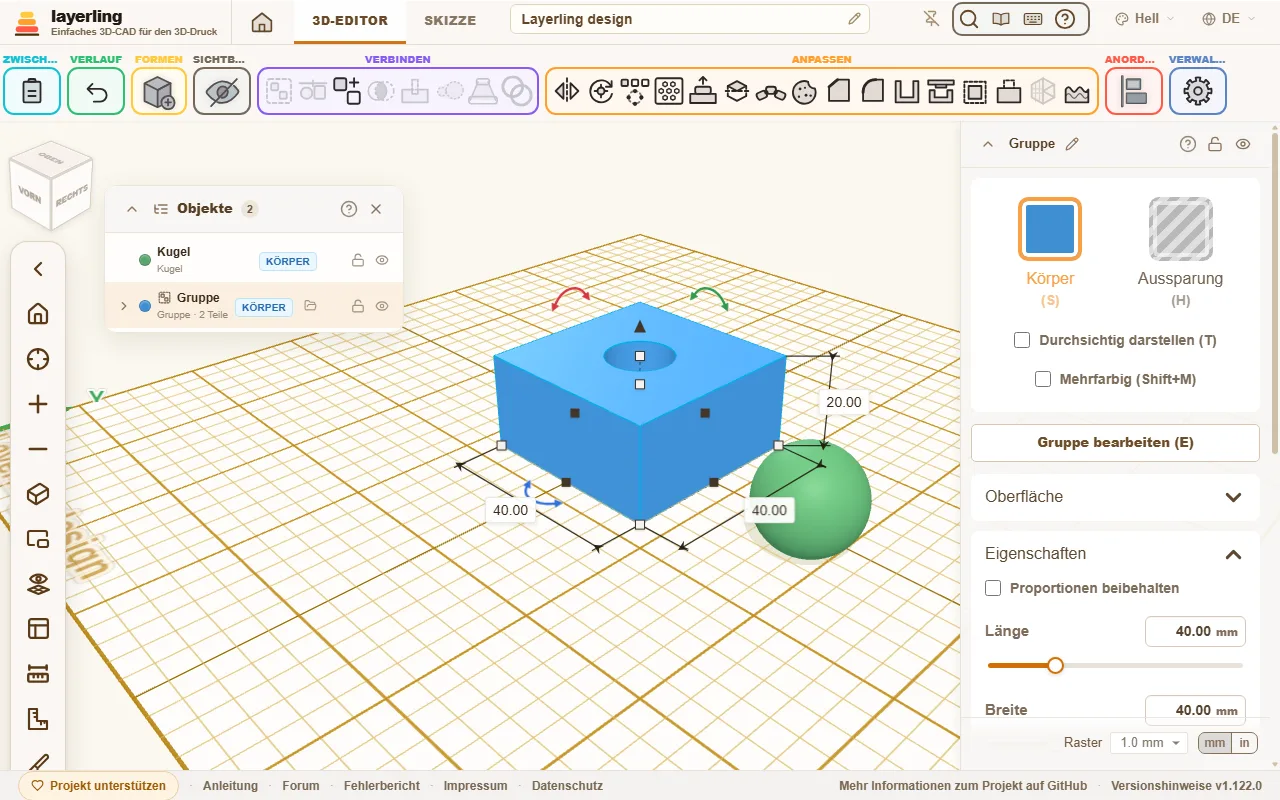
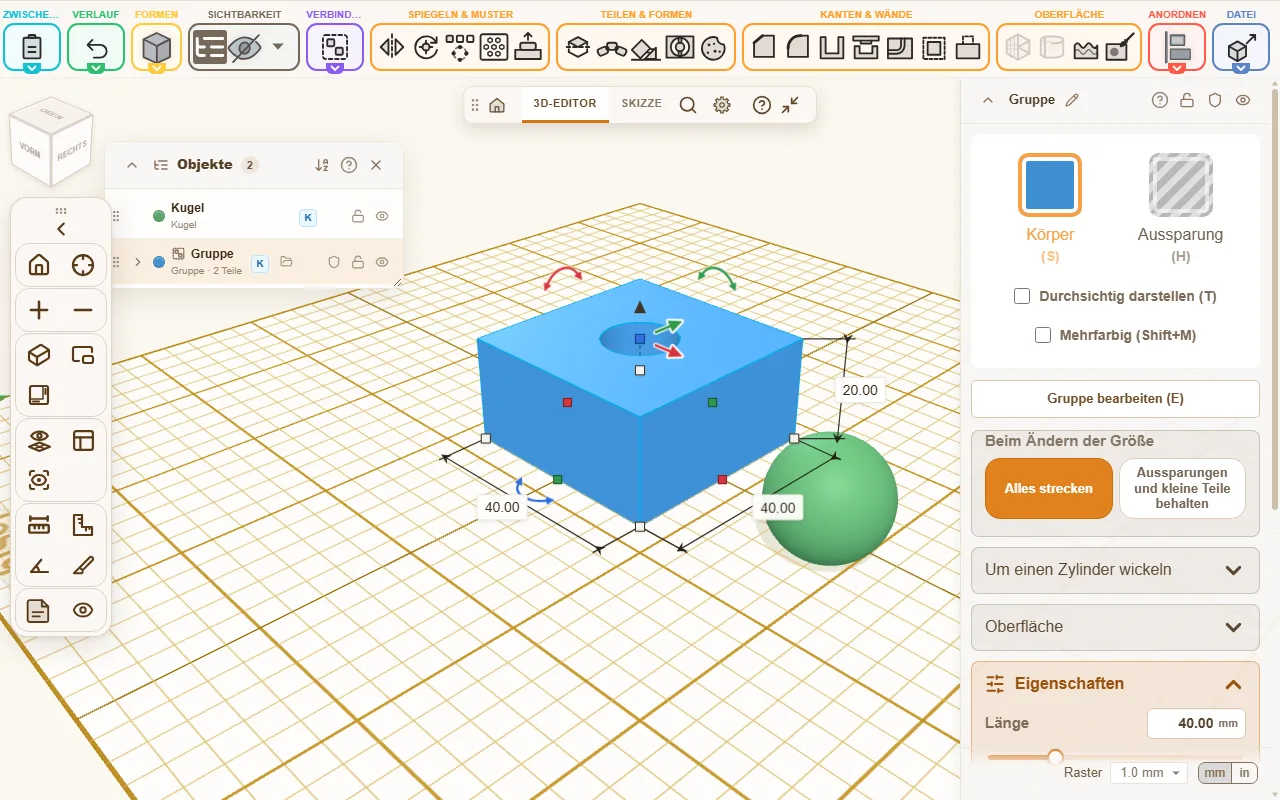
Object list: one letter for Solid or Hole, and the width can be dragged (Discussion #1636): the list is 300 px wide, and a group's row with its label and up to five buttons left as little as one letter of the name. The label is now the first letter of the word in the language shown (S/H, K/A in Germ

diff --git a/apps/web/src/components/workplane/ObjectListPanel.tsx b/apps/web/src/components/workplane/ObjectListPanel.tsx
@@ -52,6 +52,24 @@ type DropTarget = { before: string | null } | { into: string };
 const COLLAPSED_STORAGE_KEY = "layerling.editor.objectListCollapsed";
 const ORDER_STORAGE_KEY = "layerling.editor.objectListOrder";
 
+const WIDTH_STORAGE_KEY = "layerling.editor.objectListWidth";
+/** The width the panel can be dragged to at its lower right corner (Discussion #1636); min-width in globals.css. */
+const MIN_PANEL_WIDTH = 240;
+const MAX_PANEL_WIDTH = 600;
+
+/**
+ * Solid or hole as one letter, the first of the word, with the word as its tooltip (Discussion #1636): the
+ * whole word took the room the name needed. The first letters differ in every language.
+ */
+function SolidHoleBadge({ hole, small = false }: { hole: boolean; small?: boolean }) {
+  const word = hole ? t("outliner.hole") : t("outliner.solid");
+  return (
+    <span className={`outliner-badge ${small ? "small" : ""} ${hole ? "badge-hole" : "badge-solid"}`} title={word} aria-label={word}>
+      {Array.from(word)[0]?.toLocaleUpperCase(getLanguage())}
+    </span>
+  );
+}
+
 /** Docked just right of the view cube - where .outliner-panel puts it in globals.css. */
 const OBJECT_LIST_PANEL: MovablePanelOptions = {
   dockedAt: () => ({ left: 104, top: 64 }),
@@ -87,6 +105,10 @@ export function ObjectListPanel({
   const movable = useMovablePanel("layerling.editor.objectListPosition", OBJECT_LIST_PANEL);
   const [collapsed, setCollapsed] = useState(false);
   const [order, setOrder] = useState<ObjectListOrder>("added");
+  /** The width dragged at the lower right corner (Discussion #1636); null keeps the 300 px of globals.css. */
+  const [width, setWidth] = useState<number | null>(null);
+  const widthRef = useRef(width);
+  widthRef.current = width;
 
   // Remembered in this browser, like the panel's position; read after mounting so the first render matches the server's.
   useEffect(() => {
@@ -94,10 +116,33 @@ export function ObjectListPanel({
       setCollapsed(window.localStorage.getItem(COLLAPSED_STORAGE_KEY) === "true");
       const storedOrder = window.localStorage.getItem(ORDER_STORAGE_KEY);
       if (isObjectListOrder(storedOrder)) setOrder(storedOrder);
+      const storedWidth = Number(window.localStorage.getItem(WIDTH_STORAGE_KEY));
+      if (storedWidth >= MIN_PANEL_WIDTH && storedWidth <= MAX_PANEL_WIDTH) setWidth(Math.round(storedWidth));
     } catch {
       // Blocked storage: the panel starts expanded, in the order the shapes were added.
     }
   }, []);
+
+  // The browser's own resize grip writes the new width into the panel's style; keep it from there. A window too
+  // narrow for it only squeezes the panel (max-width) and leaves the wish as it was.
+  useEffect(() => {
+    const panel = movable.panelRef.current;
+    if (!panel || typeof ResizeObserver === "undefined") return;
+    const observer = new ResizeObserver(() => {
+      const dragged = Number.parseFloat(panel.style.width);
+      if (!Number.isFinite(dragged)) return;
+      const next = Math.round(Math.min(MAX_PANEL_WIDTH, Math.max(MIN_PANEL_WIDTH, dragged)));
+      if (next === widthRef.current) return;
+      setWidth(next);
+      try {
+        window.localStorage.setItem(WIDTH_STORAGE_KEY, String(next));
+      } catch {
+        // Blocked storage: the width holds until the panel closes.
+      }
+    });
+    observer.observe(panel);
+    return () => observer.disconnect();
+  }, [movable.panelRef]);
 
   const toggleOrder = () => {
     const next: ObjectListOrder = order === "name" ? "added" : "name";
@@ -353,9 +398,7 @@ export function ObjectListPanel({
           <span className="outliner-child-name" title={childDisplayName}>
             {childDisplayName}
           </span>
-          <span className={`outliner-badge small ${child.hole ? "badge-hole" : "badge-solid"}`}>
-            {child.hole ? t("outliner.hole") : t("outliner.solid")}
-          </span>
+          <SolidHoleBadge hole={Boolean(child.hole)} small />
         </li>
       );
       return leadsToMatch && child.groupedShapes ? [row, ...renderGroupParts(child.groupedShapes, depth + 1, false)] : [row];
@@ -365,7 +408,7 @@ export function ObjectListPanel({
     <div
       ref={movable.panelRef}
       className={`outliner-panel ${movable.dragging ? "moving" : ""} ${collapsed ? "collapsed" : ""}`}
-      style={movable.style}
+      style={width === null ? movable.style : { ...movable.style, width }}
       inert={inert}
       role="region"
       aria-label={t("outliner.title")}
@@ -533,9 +576,7 @@ export function ObjectListPanel({
                       </div>
 
                       <div className="outliner-badges">
-                        <span className={`outliner-badge ${shape.hole ? "badge-hole" : "badge-solid"}`}>
-                          {shape.hole ? t("outliner.hole") : t("outliner.solid")}
-                        </span>
+                        <SolidHoleBadge hole={Boolean(shape.hole)} />
                       </div>
 
                       <div className="outliner-row-actions">

diff --git a/apps/web/src/app/globals.css b/apps/web/src/app/globals.css
@@ -15294,7 +15294,10 @@ html[data-theme="dark"] .theme-check {
   display: flex;
   flex-direction: column;
   width: 300px;
-  max-width: calc(100vw - 120px);
+  /* Wider or narrower at the lower right corner (Discussion #1636); MIN/MAX_PANEL_WIDTH in ObjectListPanel.tsx. */
+  min-width: min(240px, calc(100vw - 120px));
+  max-width: min(600px, calc(100vw - 120px));
+  resize: horizontal;
   max-height: calc(100% - 96px);
   background: rgba(254, 253, 252, 0.96);
   backdrop-filter: blur(12px);
@@ -15659,14 +15662,18 @@ html[data-theme="dark"] .theme-check {
   flex: none;
 }
 
+/* One letter for Solid or Hole, the word as its tooltip (Discussion #1636). */
 .outliner-badge {
   display: inline-block;
-  padding: 1px 6px;
+  min-width: 18px;
+  padding: 1px 4px;
   font-size: 10px;
   font-weight: 700;
+  line-height: 14px;
+  text-align: center;
   border-radius: 4px;
   text-transform: uppercase;
-  letter-spacing: 0.02em;
+  cursor: default;
 }
 
 .outliner-badge.badge-solid {
@@ -15682,8 +15689,10 @@ html[data-theme="dark"] .theme-check {
 }
 
 .outliner-badge.small {
-  padding: 0 4px;
+  min-width: 15px;
+  padding: 0 3px;
   font-size: 9px;
+  line-height: 12px;
 }
 
 .outliner-row-actions {
@@ -16190,6 +16199,11 @@ html[data-theme="dark"] .shape-menu-pin.active {
 /* Collapsed: the title bar alone, without the line that separates it from the list. */
 .outliner-panel.collapsed .outliner-header {
   border-bottom: none;
+}
+
+/* The title bar alone has no corner to drag the width at. */
+.outliner-panel.collapsed {
+  resize: none;
 }
 
 .guide-modal h3 {

diff --git a/docs/guide/ru/04-select-and-arrange.md b/docs/guide/ru/04-select-and-arrange.md
@@ -22,7 +22,7 @@ summary: Как выделять фигуры, находить их в спис
 ![Список объектов: группа «Группа» с двумя деталями и сфера рядом. Значок папки раскрывает группу.](shot:object-list)
 
 - Щелчок по строке выделяет фигуру, в том числе детали внутри группы. С зажатым [[Shift]] вы добавляете строки или убираете их снова — так же, как в виде. Стрелки раскрывают и сворачивают группы.
-- Подпись показывает, что это за деталь — {{ui:outliner.solid}} или {{ui:outliner.hole}}.
+- Буква после названия показывает, является ли деталь {{ui:outliner.solid}} или {{ui:outliner.hole}}: это первая буква слова, а при наведении мыши появляется всё слово.
 - Под именем указано, что это за форма. Тело, которое уже не простая форма (скруглённое, полое или импортированное), показывает {{ui:shape.exactBody}}, если экспорт STEP записывает его точно, и {{ui:shape.mesh}}, если оно состоит только из треугольников и уходит в STL. Сужение, наклон или закрутка, добавленные после скругления или выдалбливания тела, изгибают только его сетку, поэтому тогда там стоит {{ui:shape.mesh}}.
 - Замок и глаз блокируют и скрывают отдельные детали.
 - {{ui:outliner.rename}} даёт детали своё имя; карандаш рядом с именем вверху настроек делает то же для выделенной фигуры. Понятные имена очень помогают в крупных проектах.
@@ -32,7 +32,7 @@ summary: Как выделять фигуры, находить их в спис
 - Поле поиска находит фигуры по имени и по типу — так и «цилиндр», и «отверстие». Оно заглядывает и внутрь групп, как бы глубоко они ни были вложены: группа, в которой есть совпадение, остаётся в списке и раскрывается, показывая подходящие детали и группы, которые к ним ведут. Группа, найденная по своему имени, при раскрытии показывает все свои детали.
 - Стрелка у самого левого края заголовка сворачивает список до заголовка и обратно.
 
-Список закреплён справа от куба ориентации. Перетащите его за заголовок, чтобы поставить в любое место на рабочей плоскости; он проходит под кубом ориентации и панелью вида. Отпустите его обратно рядом с кубом ориентации или дважды щёлкните по заголовку, и он снова закрепится. Где он был и был ли он свёрнут, запоминается в этом браузере.
+Список закреплён справа от куба ориентации. Перетащите его за заголовок, чтобы поставить в любое место на рабочей плоскости; он проходит под кубом ориентации и панелью вида. Отпустите его обратно рядом с кубом ориентации или дважды щёлкните по заголовку, и он снова закрепится. Где он был и был ли он свёрнут, запоминается в этом браузере. Чтобы сделать список шире или уже, потяните за его правый нижний угол, от 240 до 600 пикселей; ширину браузер тоже запоминает.
 
 ## Ввод положения
 

diff --git a/docs/guide/es/04-select-and-arrange.md b/docs/guide/es/04-select-and-arrange.md
@@ -22,7 +22,7 @@ Con muchas piezas, es fácil perderse en la vista. La lista de objetos ({{ui:edi
 ![La lista de objetos: el grupo «Grupo» con dos piezas y una esfera al lado. Un icono de carpeta abre el grupo.](shot:object-list)
 
 - Un clic en una entrada selecciona la forma, también las piezas que están dentro de un grupo. Con [[Mayús]] pulsado, añades más entradas o las vuelves a quitar, igual que en la vista. Las flechas despliegan y pliegan los grupos.
-- La etiqueta indica si una pieza es {{ui:outliner.solid}} u {{ui:outliner.hole}}.
+- La letra tras el nombre indica si una pieza es {{ui:outliner.solid}} o {{ui:outliner.hole}}: es la primera letra de la palabra, y la palabra completa aparece al pasar el ratón por encima.
 - Debajo del nombre aparece qué tipo de forma es. Un cuerpo que ya no es una forma simple (redondeado, vaciado o importado) muestra {{ui:shape.exactBody}} cuando la exportación STEP lo escribe con exactitud, y {{ui:shape.mesh}} cuando solo son triángulos y sale como STL. Un estrechamiento, una inclinación o una torsión añadidos después de redondear o vaciar un cuerpo solo doblan su malla, así que entonces muestra {{ui:shape.mesh}}.
 - El candado y el ojo bloquean y ocultan piezas sueltas.
 - {{ui:outliner.rename}} le da a una pieza un nombre propio; el lápiz junto al nombre, en la parte de arriba del panel de propiedades, hace lo mismo con la forma seleccionada. En los diseños grandes, unos nombres con sentido ayudan muchísimo.
@@ -32,7 +32,7 @@ Con muchas piezas, es fácil perderse en la vista. La lista de objetos ({{ui:edi
 - El campo de búsqueda encuentra formas por su nombre y por su tipo, así que también puedes buscar «cilindro» u «orificio». Busca también dentro de los grupos, por muy anidados que estén: un grupo que contiene una coincidencia se queda en la lista y se despliega para mostrar las piezas que coinciden y los grupos que llevan hasta ellas. Un grupo encontrado por su propio nombre muestra todas sus piezas cuando lo abres.
 - La flecha del extremo izquierdo de la barra de título pliega la lista hasta dejar solo la barra de título, y la vuelve a desplegar.
 
-La lista está acoplada justo a la derecha del cubo de vista. Arrástrala por su barra de título para ponerla en cualquier punto del plano de trabajo; pasa por debajo del cubo de vista y de la barra de vista. Si la sueltas otra vez junto al cubo de vista, o haces doble clic en la barra de título, se vuelve a acoplar. Este navegador recuerda dónde estaba y si estaba plegada.
+La lista está acoplada justo a la derecha del cubo de vista. Arrástrala por su barra de título para ponerla en cualquier punto del plano de trabajo; pasa por debajo del cubo de vista y de la barra de vista. Si la sueltas otra vez junto al cubo de vista, o haces doble clic en la barra de título, se vuelve a acoplar. Este navegador recuerda dónde estaba y si estaba plegada. Para hacer la lista más ancha o más estrecha, arrastra su esquina inferior derecha, de 240 a 600 píxeles; el navegador recuerda también el ancho.
 
 ## Escribir una posición
 

diff --git a/docs/guide/fr/04-select-and-arrange.md b/docs/guide/fr/04-select-and-arrange.md
@@ -22,7 +22,7 @@ Avec de nombreuses pièces, il est facile de perdre le fil de la vue. La liste d
 ![La liste d'objets : le groupe "Groupe" avec deux parties et une sphère à côté. Une icône de dossier ouvre le groupe.](shot:object-list)
 
 - Un clic sur une entrée sélectionne la forme, y compris les pièces à l'intérieur d'un groupe. Avec [[Shift]] maintenu, vous ajoutez ou supprimez d'autres entrées, comme dans la vue. Les flèches plient les groupes pour s'ouvrir et se fermer.
-- L'étiquette indique si une pièce est {{ui:outliner.solid}} ou {{ui:outliner.hole}}.
+- La lettre après le nom indique si une pièce est {{ui:outliner.solid}} ou {{ui:outliner.hole}} : c'est la première lettre du mot, et le mot entier s'affiche au survol de la souris.
 - Sous le nom figure le type de forme. Un corps qui n'est plus une forme simple (arrondi, évidé ou importé) affiche {{ui:shape.exactBody}} quand l'export STEP l'écrit exactement, et {{ui:shape.mesh}} quand il n'est fait que de triangles et part en STL. Un rétrécissement, une inclinaison ou une torsion ajoutés après avoir arrondi ou évidé un corps ne déforment que son maillage : il affiche alors {{ui:shape.mesh}}.
 - Cadenas et œillet de verrouillage et cache pièces détachées.
 - {{ui:outliner.rename}} donne à une pièce un nom qui lui est propre ; le crayon à côté du nom en haut des paramètres fait de même pour la forme sélectionnée. Les noms sensés aident énormément dans les conceptions plus grandes.
@@ -32,7 +32,7 @@ Avec de nombreuses pièces, il est facile de perdre le fil de la vue. La liste d
 - Le champ de recherche trouve les formes par nom et par genre, donc aussi "cylindre" ou "trou". Il examine également l'intérieur des groupes, aussi profondément imbriqués soient-ils : un groupe détenant une allumette reste dans la liste et s'ouvre pour montrer les parties correspondantes et les groupes qui y mènent. Un groupe trouvé par son propre nom affiche toutes ses parties lorsque vous l'ouvrez.
 - La flèche à l'extrême gauche de la barre de titre replie la liste jusqu'à sa barre de titre et inversement.
 
-La liste est ancrée juste à droite du cube de vue. Faites-le glisser par sa barre de titre pour le placer n'importe où sur le plan de travail ; il passe sous le cube de vue et la barre de vue. Déposez-le à côté du cube de vue ou double-cliquez sur la barre de titre et il s'ancre à nouveau. L'endroit où il se trouvait et s'il a été plié sont mémorisés dans ce navigateur.
+La liste est ancrée juste à droite du cube de vue. Faites-le glisser par sa barre de titre pour le placer n'importe où sur le plan de travail ; il passe sous le cube de vue et la barre de vue. Déposez-le à côté du cube de vue ou double-cliquez sur la barre de titre et il s'ancre à nouveau. L'endroit où il se trouvait et s'il a été plié sont mémorisés dans ce navigateur. Pour élargir ou rétrécir la liste, faites glisser son coin inférieur droit, de 240 à 600 pixels ; le navigateur retient aussi la largeur.
 
 ## Saisir une position
 

diff --git a/docs/guide/de/04-auswaehlen-und-anordnen.md b/docs/guide/de/04-auswaehlen-und-anordnen.md
@@ -22,7 +22,7 @@ Bei vielen Teilen verliert man in der Ansicht leicht den Überblick. Die Objektl
 ![Die Objektliste: die Gruppe „Gruppe“ mit zwei Teilen und daneben eine Kugel. Ein Ordnersymbol öffnet die Gruppe.](shot:object-list)
 
 - Ein Klick auf einen Eintrag wählt die Form aus, auch die Teile innerhalb einer Gruppe. Mit [[Umschalt]] nimmst du weitere Einträge dazu oder wieder weg, genau wie in der Ansicht. Die Pfeile klappen Gruppen auf und zu.
-- Das Etikett zeigt, ob ein Teil {{ui:outliner.solid}} oder {{ui:outliner.hole}} ist.
+- Der Buchstabe hinter dem Namen zeigt, ob ein Teil {{ui:outliner.solid}} oder {{ui:outliner.hole}} ist: Es ist der Anfangsbuchstabe des Worts, und mit der Maus darüber erscheint das ganze Wort.
 - Unter dem Namen steht, was für eine Form es ist. Ein Körper, der keine einfache Form mehr ist (verrundet, ausgehöhlt oder eingelesen), zeigt {{ui:shape.exactBody}}, wenn die STEP-Ausfuhr ihn exakt schreibt, und {{ui:shape.mesh}}, wenn er nur aus Dreiecken besteht und als STL hinausgeht. Eine Verjüngung, Neigung oder Verdrehung, die erst nach dem Verrunden oder Aushöhlen dazukommt, verformt nur sein Netz; dann steht dort {{ui:shape.mesh}}.
 - Schloss und Auge sperren und verstecken einzelne Teile.
 - Über {{ui:outliner.rename}} gibst du einem Teil einen eigenen Namen; der Stift neben dem Namen oben in den Einstellungen macht dasselbe für die ausgewählte Form. Vernünftige Namen helfen bei größeren Entwürfen enorm.
@@ -32,7 +32,7 @@ Bei vielen Teilen verliert man in der Ansicht leicht den Überblick. Die Objektl
 - Das Suchfeld findet Formen nach Namen und nach Art, also auch „Zylinder“ oder „Aussparung“. Es sucht auch in Gruppen, egal wie tief verschachtelt: Eine Gruppe mit einem Treffer bleibt in der Liste und klappt auf, sodass die passenden Teile und die Gruppen auf dem Weg dorthin zu sehen sind. Passt der Name der Gruppe selbst, zeigt sie aufgeklappt alle ihre Teile.
 - Der Pfeil ganz links in der Titelleiste klappt die Liste bis auf ihre Titelleiste ein und wieder auf.
 
-Die Liste ist rechts neben dem Ansichtswürfel angedockt. An ihrer Titelleiste ziehst du sie an jede Stelle der Arbeitsfläche; dabei gleitet sie unter dem Ansichtswürfel und der Ansichtsleiste hindurch. Legst du sie neben dem Ansichtswürfel wieder ab oder doppelklickst auf die Titelleiste, dockt sie wieder an. Wo sie stand und ob sie eingeklappt war, merkt sich der Browser.
+Die Liste ist rechts neben dem Ansichtswürfel angedockt. An ihrer Titelleiste ziehst du sie an jede Stelle der Arbeitsfläche; dabei gleitet sie unter dem Ansichtswürfel und der Ansichtsleiste hindurch. Legst du sie neben dem Ansichtswürfel wieder ab oder doppelklickst auf die Titelleiste, dockt sie wieder an. Wo sie stand und ob sie eingeklappt war, merkt sich der Browser. Breiter oder schmaler machst du die Liste an ihrer rechten unteren Ecke, von 240 bis 600 Pixeln; auch die Breite merkt sich der Browser.
 
 ## Position eintippen
 

diff --git a/docs/guide/it/04-select-and-arrange.md b/docs/guide/it/04-select-and-arrange.md
@@ -22,7 +22,7 @@ Quando ci sono molte parti, è facile perderne qualcuna nella vista. L’elenco 
 ![L’elenco degli oggetti: il gruppo “Gruppo” contiene due parti e accanto c’è una sfera. L’icona della cartella apre il gruppo.](shot:object-list)
 
 - Fai clic su una voce per selezionare la forma, anche se si trova dentro un gruppo. Tieni premuto [[Shift]] per aggiungere o rimuovere altre voci, proprio come nella vista. Le frecce aprono e chiudono i gruppi.
-- L’etichetta indica se una parte è {{ui:outliner.solid}} oppure {{ui:outliner.hole}}.
+- La lettera dopo il nome indica se una parte è {{ui:outliner.solid}} o {{ui:outliner.hole}}: è l'iniziale della parola, e la parola intera compare tenendoci sopra il mouse.
 - Sotto il nome compare il tipo di forma. Un corpo che non è più una forma semplice (arrotondato, svuotato o importato) mostra {{ui:shape.exactBody}} quando l'esportazione STEP lo scrive in modo esatto, e {{ui:shape.mesh}} quando è fatto solo di triangoli e va esportato come STL. Una rastremazione, un'inclinazione o una torsione aggiunte dopo aver arrotondato o svuotato un corpo piegano solo la sua mesh, quindi allora mostra {{ui:shape.mesh}}.
 - Il lucchetto e l’occhio bloccano o nascondono le singole parti.
 - {{ui:outliner.rename}} assegna un nome alla parte; la matita accanto al nome in cima alle impostazioni rinomina allo stesso modo la forma selezionata. In un progetto grande, nomi chiari sono di grande aiuto.
@@ -32,7 +32,7 @@ Quando ci sono molte parti, è facile perderne qualcuna nella vista. L’elenco 
 - Il campo di ricerca trova le forme per nome e per tipo, per esempio “cilindro” o “foro”. Cerca anche all’interno dei gruppi, a qualsiasi livello: se un gruppo contiene una corrispondenza, resta nell’elenco e si apre mostrando le parti trovate e i gruppi che conducono a esse. Se invece il nome del gruppo stesso corrisponde alla ricerca, aprendolo vedrai tutte le sue parti.
 - La freccia all’estrema sinistra della barra del titolo comprime l’elenco nella sola barra e lo riapre.
 
-L’elenco è ancorato subito a destra del cubo di visualizzazione. Trascinalo dalla barra del titolo per posizionarlo ovunque sul piano di lavoro; può sovrapporsi al cubo e alla barra della vista. Riportalo accanto al cubo o fai doppio clic sulla barra del titolo per ancorarlo di nuovo. In questo browser vengono ricordati posizione e stato aperto o compresso.
+L’elenco è ancorato subito a destra del cubo di visualizzazione. Trascinalo dalla barra del titolo per posizionarlo ovunque sul piano di lavoro; può sovrapporsi al cubo e alla barra della vista. Riportalo accanto al cubo o fai doppio clic sulla barra del titolo per ancorarlo di nuovo. In questo browser vengono ricordati posizione e stato aperto o compresso. Per allargare o restringere l'elenco trascina il suo angolo in basso a destra, da 240 a 600 pixel; anche la larghezza viene ricordata dal browser.
 
 ## Digitare una posizione
 

diff --git a/docs/guide/hu/04-select-and-arrange.md b/docs/guide/hu/04-select-and-arrange.md
@@ -22,7 +22,7 @@ Sok résznél a nézetben könnyű elveszíteni a fonalat. Az objektumlista ({{u
 ![Az objektumlista: a „Group” csoport két résszel, mellette egy gömb. Egy mappa ikon megnyitja a csoportot.](shot:object-list)
 
 - Egy bejegyzésre kattintva kijelölöd az alakzatot, a csoporton belüli részeket is. Nyomva tartott [[Shift]] billentyűvel további bejegyzéseket adsz hozzá vagy veszel el, mint a nézetben. A nyilak kinyitják és összecsukják a csoportokat.
-- A címke mutatja, hogy egy rész {{ui:outliner.solid}} vagy {{ui:outliner.hole}}.
+- A név utáni betű mutatja, hogy egy rész {{ui:outliner.solid}} vagy {{ui:outliner.hole}}: ez a szó kezdőbetűje, és ha fölé viszed az egeret, megjelenik a teljes szó.
 - A név alatt az áll, milyen alakzatról van szó. Az a test, amely már nem egyszerű alakzat (lekerekített, kiüregelt vagy importált), {{ui:shape.exactBody}} feliratot kap, ha a STEP-export pontosan kiírja, és {{ui:shape.mesh}} feliratot, ha csak háromszögekből áll, és STL-ként megy ki. A lekerekítés vagy kiüregelés után hozzáadott szűkítés, döntés vagy csavarás csak a hálóját hajlítja meg, ezért ekkor {{ui:shape.mesh}} áll ott.
 - A lakat és a szem egyes részeket zárol és rejt el.
 - Az {{ui:outliner.rename}} saját nevet ad egy résznek; a beállítások tetején a név melletti ceruza ugyanezt teszi a kijelölt alakzattal. Nagyobb terveknél az értelmes nevek rengeteget segítenek.
@@ -32,7 +32,7 @@ Sok résznél a nézetben könnyű elveszíteni a fonalat. Az objektumlista ({{u
 - A keresőmező név és fajta szerint is megtalálja az alakzatokat, így a „henger” vagy a „lyuk” szóra is. A csoportokon belül is keres, akármilyen mélyen vannak egymásba ágyazva: egy találatot tartalmazó csoport a listában marad, és kinyílik, hogy megmutassa az egyező részeket és a hozzájuk vezető csoportokat. A saját neve alapján megtalált csoport megnyitáskor az összes részét mutatja.
 - A címsor bal szélén lévő nyíl a címsoráig összecsukja a listát, majd újra kinyitja.
 
-A lista a nézetkockától közvetlenül jobbra van rögzítve. A címsoránál fogva húzd bárhová a munkasíkon; a nézetkocka és a nézetsáv alatt halad el. Ejtsd vissza a nézetkocka mellé, vagy kattints duplán a címsorra, és újra rögzül. Hogy hol volt, és hogy össze volt-e csukva, ebben a böngészőben megmarad.
+A lista a nézetkockától közvetlenül jobbra van rögzítve. A címsoránál fogva húzd bárhová a munkasíkon; a nézetkocka és a nézetsáv alatt halad el. Ejtsd vissza a nézetkocka mellé, vagy kattints duplán a címsorra, és újra rögzül. Hogy hol volt, és hogy össze volt-e csukva, ebben a böngészőben megmarad. A listát a jobb alsó sarkánál húzva teheted szélesebbé vagy keskenyebbé, 240 és 600 képpont között; a böngésző a szélességet is megjegyzi.
 
 ## Helyzet begépelése
 

diff --git a/docs/guide/pl/04-select-and-arrange.md b/docs/guide/pl/04-select-and-arrange.md
@@ -22,7 +22,7 @@ Przy wielu częściach łatwo zgubić się w widoku. Lista obiektów ({{ui:edito
 ![Lista obiektów: grupa „Group” z dwiema częściami i kula obok niej. Ikona folderu otwiera grupę.](shot:object-list)
 
 - Kliknięcie wpisu zaznacza kształt, także części wewnątrz grupy. Z wciśniętym [[Shift]] dodajesz kolejne wpisy albo je odznaczasz, tak jak w widoku. Strzałki rozwijają i zwijają grupy.
-- Etykieta pokazuje, czy część jest {{ui:outliner.solid}}, czy {{ui:outliner.hole}}.
+- Litera za nazwą pokazuje, czy część jest {{ui:outliner.solid}}, czy {{ui:outliner.hole}}: to pierwsza litera słowa, a całe słowo pojawia się po najechaniu myszą.
 - Pod nazwą widać, jaki to kształt. Bryła, która nie jest już prostym kształtem (zaokrąglona, wydrążona lub zaimportowana), pokazuje {{ui:shape.exactBody}}, gdy eksport STEP zapisuje ją dokładnie, i {{ui:shape.mesh}}, gdy składa się tylko z trójkątów i trafia do STL. Zwężenie, pochylenie lub skręt dodane dopiero po zaokrągleniu lub wydrążeniu bryły wyginają tylko jej siatkę, więc wtedy pokazuje {{ui:shape.mesh}}.
 - Kłódka i oko blokują i ukrywają pojedyncze części.
 - {{ui:outliner.rename}} nadaje części własną nazwę. Ołówek obok nazwy na górze ustawień robi to samo dla zaznaczonego kształtu. Sensowne nazwy bardzo pomagają w większych projektach.
@@ -32,7 +32,7 @@ Przy wielu częściach łatwo zgubić się w widoku. Lista obiektów ({{ui:edito
 - Pole wyszukiwania znajduje kształty po nazwie i po rodzaju, więc także „walec” albo „otwór”. Zagląda też do wnętrza grup, niezależnie od głębokości zagnieżdżenia: grupa zawierająca trafienie zostaje na liście i rozwija się, pokazując pasujące części i grupy, które do nich prowadzą. Grupa znaleziona po własnej nazwie po otwarciu pokazuje wszystkie swoje części.
 - Strzałka po lewej stronie paska tytułu zwija listę do samego paska i z powrotem.
 
-Lista jest zadokowana tuż na prawo od kostki widoku. Przeciągnij ją za pasek tytułu, aby położyć ją w dowolnym miejscu na płaszczyźnie roboczej. Przechodzi pod kostką widoku i paskiem widoku. Upuść ją z powrotem obok kostki widoku albo kliknij dwukrotnie pasek tytułu, a znów się zadokuje. Przeglądarka zapamiętuje, gdzie była i czy była zwinięta.
+Lista jest zadokowana tuż na prawo od kostki widoku. Przeciągnij ją za pasek tytułu, aby położyć ją w dowolnym miejscu na płaszczyźnie roboczej. Przechodzi pod kostką widoku i paskiem widoku. Upuść ją z powrotem obok kostki widoku albo kliknij dwukrotnie pasek tytułu, a znów się zadokuje. Przeglądarka zapamiętuje, gdzie była i czy była zwinięta. Aby poszerzyć lub zwęzić listę, przeciągnij jej prawy dolny róg, od 240 do 600 pikseli; przeglądarka zapamiętuje także szerokość.
 
 ## Wpisywanie pozycji
 

diff --git a/docs/guide/nl/04-selecteren-en-schikken.md b/docs/guide/nl/04-selecteren-en-schikken.md
@@ -22,7 +22,7 @@ Met veel onderdelen raak je in de weergave makkelijk het overzicht kwijt. De obj
 ![De objectlijst: de groep "Groep" met twee onderdelen en een bol ernaast. Een mappictogram opent de groep.](shot:object-list)
 
 - Een klik op een regel selecteert de vorm, ook onderdelen binnen een groep. Met [[Shift]] ingedrukt voeg je meer regels toe of haal je ze weer weg, net als in de weergave. De pijltjes klappen groepen open en dicht.
-- Het label laat zien of een onderdeel {{ui:outliner.solid}} of {{ui:outliner.hole}} is.
+- De letter achter de naam laat zien of een onderdeel {{ui:outliner.solid}} of {{ui:outliner.hole}} is: het is de eerste letter van het woord, en met de muis erboven verschijnt het hele woord.
 - Onder de naam staat wat voor vorm het is. Een lichaam dat geen eenvoudige vorm meer is (afgerond, uitgehold of geïmporteerd), toont {{ui:shape.exactBody}} als de STEP-export het exact schrijft, en {{ui:shape.mesh}} als het alleen uit driehoeken bestaat en als STL meegaat. Een versmalling, helling of draaiing die pas na het afronden of uithollen komt, buigt alleen de mesh; dan staat er {{ui:shape.mesh}}.
 - Hangslot en oog vergrendelen en verbergen afzonderlijke onderdelen.
 - {{ui:outliner.rename}} geeft een onderdeel een eigen naam; het potlood naast de naam bovenaan in de instellingen doet hetzelfde voor de geselecteerde vorm. Zinnige namen helpen enorm in grotere ontwerpen.
@@ -32,7 +32,7 @@ Met veel onderdelen raak je in de weergave makkelijk het overzicht kwijt. De obj
 - Het zoekveld vindt vormen op naam en op soort, dus ook "cilinder" of "gat". Het zoekt ook binnen groepen, hoe diep ook genest: een groep met een treffer blijft in de lijst staan en klapt open om de gevonden onderdelen te tonen en de groepen die ernaartoe leiden. Een groep die op zijn eigen naam gevonden is, toont al zijn onderdelen als je hem opent.
 - Het pijltje helemaal links in de titelbalk klapt de lijst in tot alleen de titelbalk, en weer terug.
 
-De lijst zit vastgezet net rechts van de weergavekubus. Sleep hem aan zijn titelbalk om hem ergens op het werkvlak neer te zetten; hij schuift onder de weergavekubus en de weergavebalk door. Laat hem weer naast de weergavekubus los, of dubbelklik op de titelbalk, en hij zit weer vast. Waar hij stond en of hij ingeklapt was, onthoudt deze browser.
+De lijst zit vastgezet net rechts van de weergavekubus. Sleep hem aan zijn titelbalk om hem ergens op het werkvlak neer te zetten; hij schuift onder de weergavekubus en de weergavebalk door. Laat hem weer naast de weergavekubus los, of dubbelklik op de titelbalk, en hij zit weer vast. Waar hij stond en of hij ingeklapt was, onthoudt deze browser. De lijst maak je breder of smaller door de rechteronderhoek te slepen, van 240 tot 600 pixels; ook de breedte onthoudt de browser.
 
 ## Een positie typen
 

diff --git a/docs/guide/da/04-select-and-arrange.md b/docs/guide/da/04-select-and-arrange.md
@@ -24,7 +24,7 @@ Den bliver åben eller lukket, som du lod den være, for hvert design, indtil du
 ![Objektlisten: gruppen "Gruppe" med to dele og en kugle ved siden af. Et mappeikon åbner gruppen.](shot:object-list)
 
 - Et klik på en post vælger formen, inklusive dele inde i en gruppe. Med [[Shift]] holdt tilføjer du flere poster eller tager dem væk igen, ligesom i visningen. Pilene folder grupper åbne og i.
-- Etiketten viser om en del er {{ui:outliner.solid}} eller {{ui:outliner.hole}}.
+- Bogstavet efter navnet viser, om en del er {{ui:outliner.solid}} eller {{ui:outliner.hole}}: det er ordets første bogstav, og hele ordet vises, når du holder musen over det.
 - Under navnet står, hvilken slags form det er. En form, der ikke længere er en simpel form (afrundet, udhulet eller importeret), viser {{ui:shape.exactBody}}, når STEP-eksporten skriver den eksakt, og {{ui:shape.mesh}}, når den kun består af trekanter og går ud som STL. En tilspidsning, hældning eller vridning, der først kommer til efter afrunding eller udhuling, bøjer kun dens mesh, så viser den {{ui:shape.mesh}}.
 - Hængelås og øje låser og skjuler enkelte dele.
 - {{ui:outliner.rename}} giver en del sit eget navn; blyanten ved siden af navnet øverst i indstillingerne gør det samme for den valgte form. Fornuftige navne hjælper enormt i større designs.
@@ -34,7 +34,7 @@ Den bliver åben eller lukket, som du lod den være, for hvert design, indtil du
 - Søgefeltet finder former på navn og type, så også "cylinder" eller "hul". Det kigger også inden i grupper, uanset hvor dybt: en gruppe der indeholder et match bliver i listen og folder sig åben for at vise de matchende dele og de grupper der fører til dem. En gruppe fundet på sit eget navn viser alle sine dele når du åbner den.
 - Pilen yderst til venstre på titellinjen folder listen ned til dens titellinje og tilbage igen.
 
-Listen sidder docket lige til højre for visningskuben. Træk den i dens titellinje for at placere den hvor som helst på arbejdsplanet; den passerer under visningskuben og visningsbjælken. Slip den tilbage ved siden af visningskuben, eller dobbeltklik titellinjen, og den docker igen. Hvor den var og om den var foldet huskes i denne browser.
+Listen sidder docket lige til højre for visningskuben. Træk den i dens titellinje for at placere den hvor som helst på arbejdsplanet; den passerer under visningskuben og visningsbjælken. Slip den tilbage ved siden af visningskuben, eller dobbeltklik titellinjen, og den docker igen. Hvor den var og om den var foldet huskes i denne browser. Gør listen bredere eller smallere ved at trække i dens nederste højre hjørne, fra 240 til 600 pixel; også bredden huskes i browseren.
 
 ## Tast en position
 
